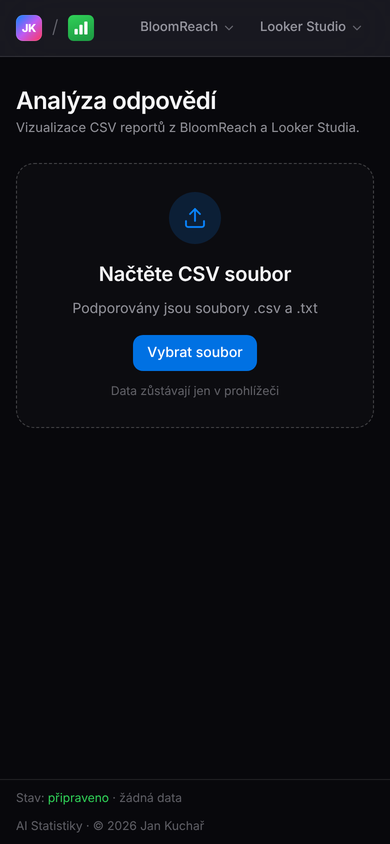
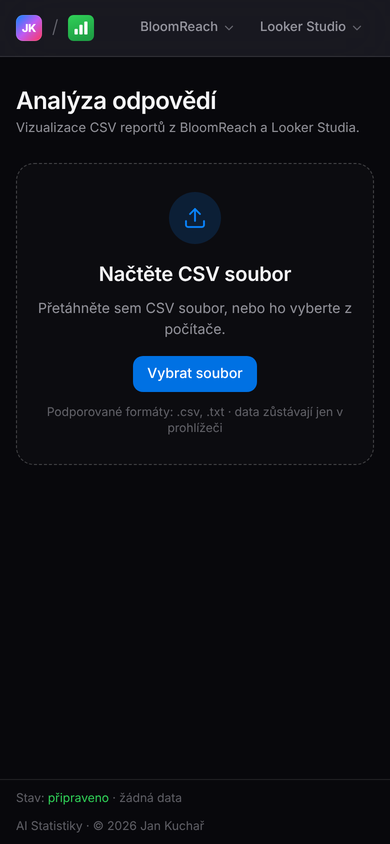
feat: přetažení souboru do dropzóny
Dropzóna přijímá přetažený .csv/.txt soubor, při přetažení zvýrazní
okraj accent a pozadí accent-soft podle manuálu. Aktualizované
screenshoty prázdného stavu.

Claude-Session: https://claude.ai/code/session_011bBLGtNggjU6KoCke1EyZN

Changed region(s): [[0.0923, 0.3389, 0.8615, 0.5237]]

diff --git a/components/FileUpload.tsx b/components/FileUpload.tsx
@@ -11,15 +11,46 @@ const FileUpload: React.FC<FileUploadProps> = ({ onDataLoaded }) => {
   const fileInputRef = useRef<HTMLInputElement>(null);
   const [isProcessing, setIsProcessing] = useState(false);
 
+  const [isDragOver, setIsDragOver] = useState(false);
+
+  const handleFile = (file: File) => {
+    if (!/\.(csv|txt)$/i.test(file.name)) {
+      alert("Podporovány jsou soubory .csv a .txt");
+      return;
+    }
+    setIsProcessing(true);
+    // Use setTimeout to allow UI to update to processing state before heavy parsing begins
+    setTimeout(() => {
+      parseFile(file);
+    }, 100);
+  };
+
   const handleFileChange = (event: React.ChangeEvent<HTMLInputElement>) => {
     const file = event.target.files?.[0];
-    if (file) {
-      setIsProcessing(true);
-      // Use setTimeout to allow UI to update to processing state before heavy parsing begins
-      setTimeout(() => {
-        parseFile(file);
-      }, 100);
-    }
+    if (file) handleFile(file);
+    // Allow selecting the same file again
+    event.target.value = '';
+  };
+
+  const handleDragOver = (event: React.DragEvent<HTMLDivElement>) => {
+    event.preventDefault();
+    if (isProcessing) return;
+    event.dataTransfer.dropEffect = 'copy';
+    setIsDragOver(true);
+  };
+
+  const handleDragLeave = (event: React.DragEvent<HTMLDivElement>) => {
+    // Ignore leaving into a child element of the dropzone
+    if (event.currentTarget.contains(event.relatedTarget as Node | null)) return;
+    setIsDragOver(false);
+  };
+
+  const handleDrop = (event: React.DragEvent<HTMLDivElement>) => {
+    event.preventDefault();
+    setIsDragOver(false);
+    if (isProcessing) return;
+    const file = event.dataTransfer.files?.[0];
+    if (file) handleFile(file);
   };
 
   const parseFile = (file: File) => {
@@ -51,8 +82,12 @@ const FileUpload: React.FC<FileUploadProps> = ({ onDataLoaded }) => {
 
   return (
     <div
+      onDragOver={handleDragOver}
+      onDragEnter={handleDragOver}
+      onDragLeave={handleDragLeave}
+      onDrop={handleDrop}
       className={`rounded-panel border border-dashed px-3.5 py-7 sm:px-5 sm:py-10 flex flex-col items-center text-center gap-2.5 transition-colors ${
-        isProcessing
+        isProcessing || isDragOver
           ? 'border-accent bg-accent-soft'
           : 'border-line-hover bg-white/[.02] hover:border-accent hover:bg-accent-soft'
       }`}
@@ -68,7 +103,7 @@ const FileUpload: React.FC<FileUploadProps> = ({ onDataLoaded }) => {
         {isProcessing ? 'Zpracovávám data...' : 'Načtěte CSV soubor'}
       </h3>
       <p className="text-fg-muted max-w-[46ch]">
-        {isProcessing ? 'Prosím čekejte, analyzuji soubor.' : 'Podporovány jsou soubory .csv a .txt'}
+        {isProcessing ? 'Prosím čekejte, analyzuji soubor.' : 'Přetáhněte sem CSV soubor, nebo ho vyberte z počítače.'}
       </p>
 
       <input 
@@ -88,7 +123,7 @@ const FileUpload: React.FC<FileUploadProps> = ({ onDataLoaded }) => {
           Vybrat soubor
         </button>
       )}
-      <span className="text-xs text-fg-subtle mt-0.5">Data zůstávají jen v prohlížeči</span>
+      <span className="text-xs text-fg-subtle mt-0.5">Podporované formáty: .csv, .txt · data zůstávají jen v prohlížeči</span>
     </div>
   );
 };
